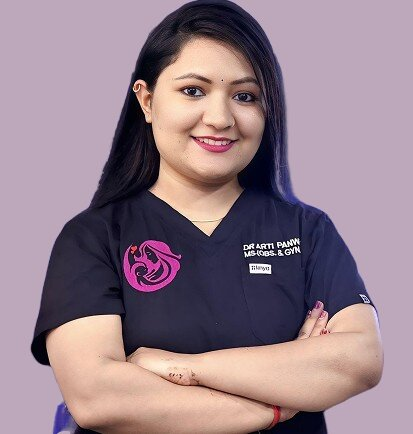
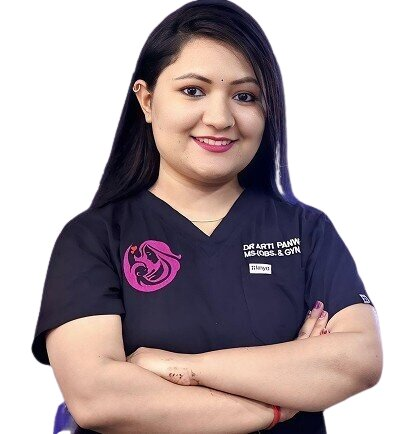
changes

diff --git a/src/components/home/Hero.jsx b/src/components/home/Hero.jsx
@@ -7,26 +7,30 @@ import Image from "next/image";
 import hero1 from "@/assets/ban1.jpeg";
 import hero2 from "@/assets/ban2.jpeg";
 import hero3 from "@/assets/ban3.jpeg";
-// import hero4 from "@/assets/ban4.jpeg";
+import hero4 from "@/assets/ban4.jpeg";
 
 
 const SLIDES = [
+   {
+    image: hero1,
+    alt: "Embrace the Goodness of Ayurveda. Mediwine syrup, Vajromax Gold and Fem Rasayan wellness products",
+  },
+
+    {
+    image: hero2,
+    alt: "Ayurvedic Support for Every Stage of Life. Root Tricks hair care capsules and Shatavar tablets",
+  },
+  
   {
     image: hero3,
     alt: "Your Journey to Parenthood, Supported Naturally. Vajromax Gold and Fem Rasayan Ayurvedic fertility support tablets",
   },
-  {
-    image: hero2,
-    alt: "Embrace the Goodness of Ayurveda. Mediwine syrup, Vajromax Gold and Fem Rasayan wellness products",
-  },
-  {
-    image: hero1,
+ 
+
+   {
+    image: hero4,
     alt: "Ayurvedic Support for Every Stage of Life. Root Tricks hair care capsules and Shatavar tablets",
   },
-  //  {
-  //   image: hero4,
-  //   alt: "Ayurvedic Support for Every Stage of Life. Root Tricks hair care capsules and Shatavar tablets",
-  // },
 ];
 
 const AUTOPLAY_MS = 2000;
